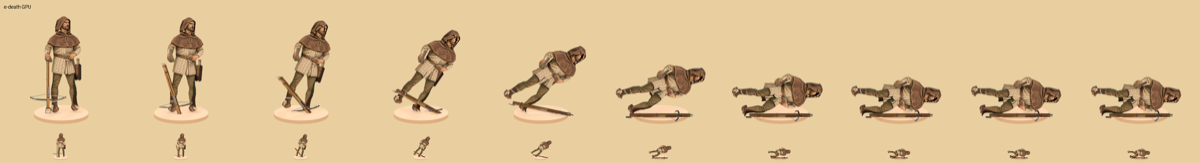
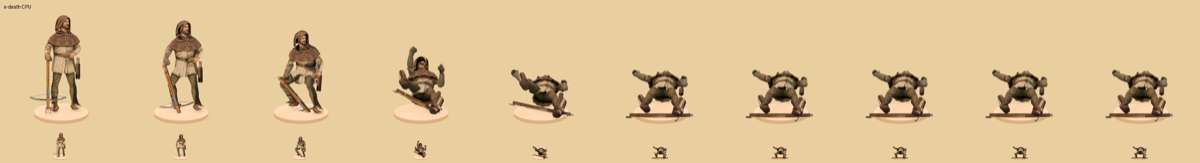
3D spearman interim review images

diff --git a/tools/art/anim3d/review/barbarian-crossbowman-log.md b/tools/art/anim3d/review/barbarian-crossbowman-log.md
@@ -48,3 +48,17 @@
 - e-move: 8 frames reviewed at 256/64; CYCLES GPU, 64 samples, source 512px.
 - e-attack: 10 frames reviewed at 256/64; CYCLES GPU, 64 samples, source 512px.
 - e-hit: 4 frames reviewed at 256/64; CYCLES GPU, 64 samples, source 512px.
+- e-death: 10 frames reviewed at 256/64; CYCLES GPU, 64 samples, source 512px.
+- Packed 40 frames, trimmed 160px cells, WebP quality 90, 157272 bytes.
+- Wrote 8 second five-clip H.264 yuv420p review barbarian-crossbowman-round1.mp4
+
+- Driver round 2 opening GPU critique: opened c, f, all five e strips and decoded round1 MP4 frame before edits. GPU transcript ends GPU_MASTERS_OK/VIDEO_OK: 512px Cycles GPU64, 40 frames, Q90 157272 bytes; no failed GPU pass to repair. At256 painted face/gambeson are strong, but hood crown separates in hit/death, leg/boot outlines are narrow, bolt case is too dark/large, prod curvature differs, base is too smooth and high, and death floats stiffly. At64 identity and scale read correctly but feet/weapon/base silhouette is visibly different. Not PASS. Prior GPU evidence archived under masters/barbarian-crossbowman/driver-r1-gpu.
+- Read all playbook chapters, all standing feedback including new motion rule23, complete running log, and all six Blender skills. Unit-specific FEEDBACK.md absent. Applying full-depth projection/geometry/material/lighting refinements; replacing authored non-attack motion with existing CC0 Quaternius actions plus front/top feet evidence.
+- c: 1 frames reviewed at 256/64; CYCLES CPU, 8 samples, source 256px.
+- c: 1 frames reviewed at 256/64; CYCLES CPU, 8 samples, source 256px.
+- d: 4 frames reviewed at 256/64; CYCLES CPU, 8 samples, source 256px.
+- e-idle: 8 frames reviewed at 256/64; CYCLES CPU, 8 samples, source 256px.
+- e-move: 8 frames reviewed at 256/64; CYCLES CPU, 8 samples, source 256px.
+- e-attack: 10 frames reviewed at 256/64; CYCLES CPU, 8 samples, source 256px.
+- e-hit: 4 frames reviewed at 256/64; CYCLES CPU, 8 samples, source 256px.
+- e-death: 10 frames reviewed at 256/64; CYCLES CPU, 8 samples, source 256px.
